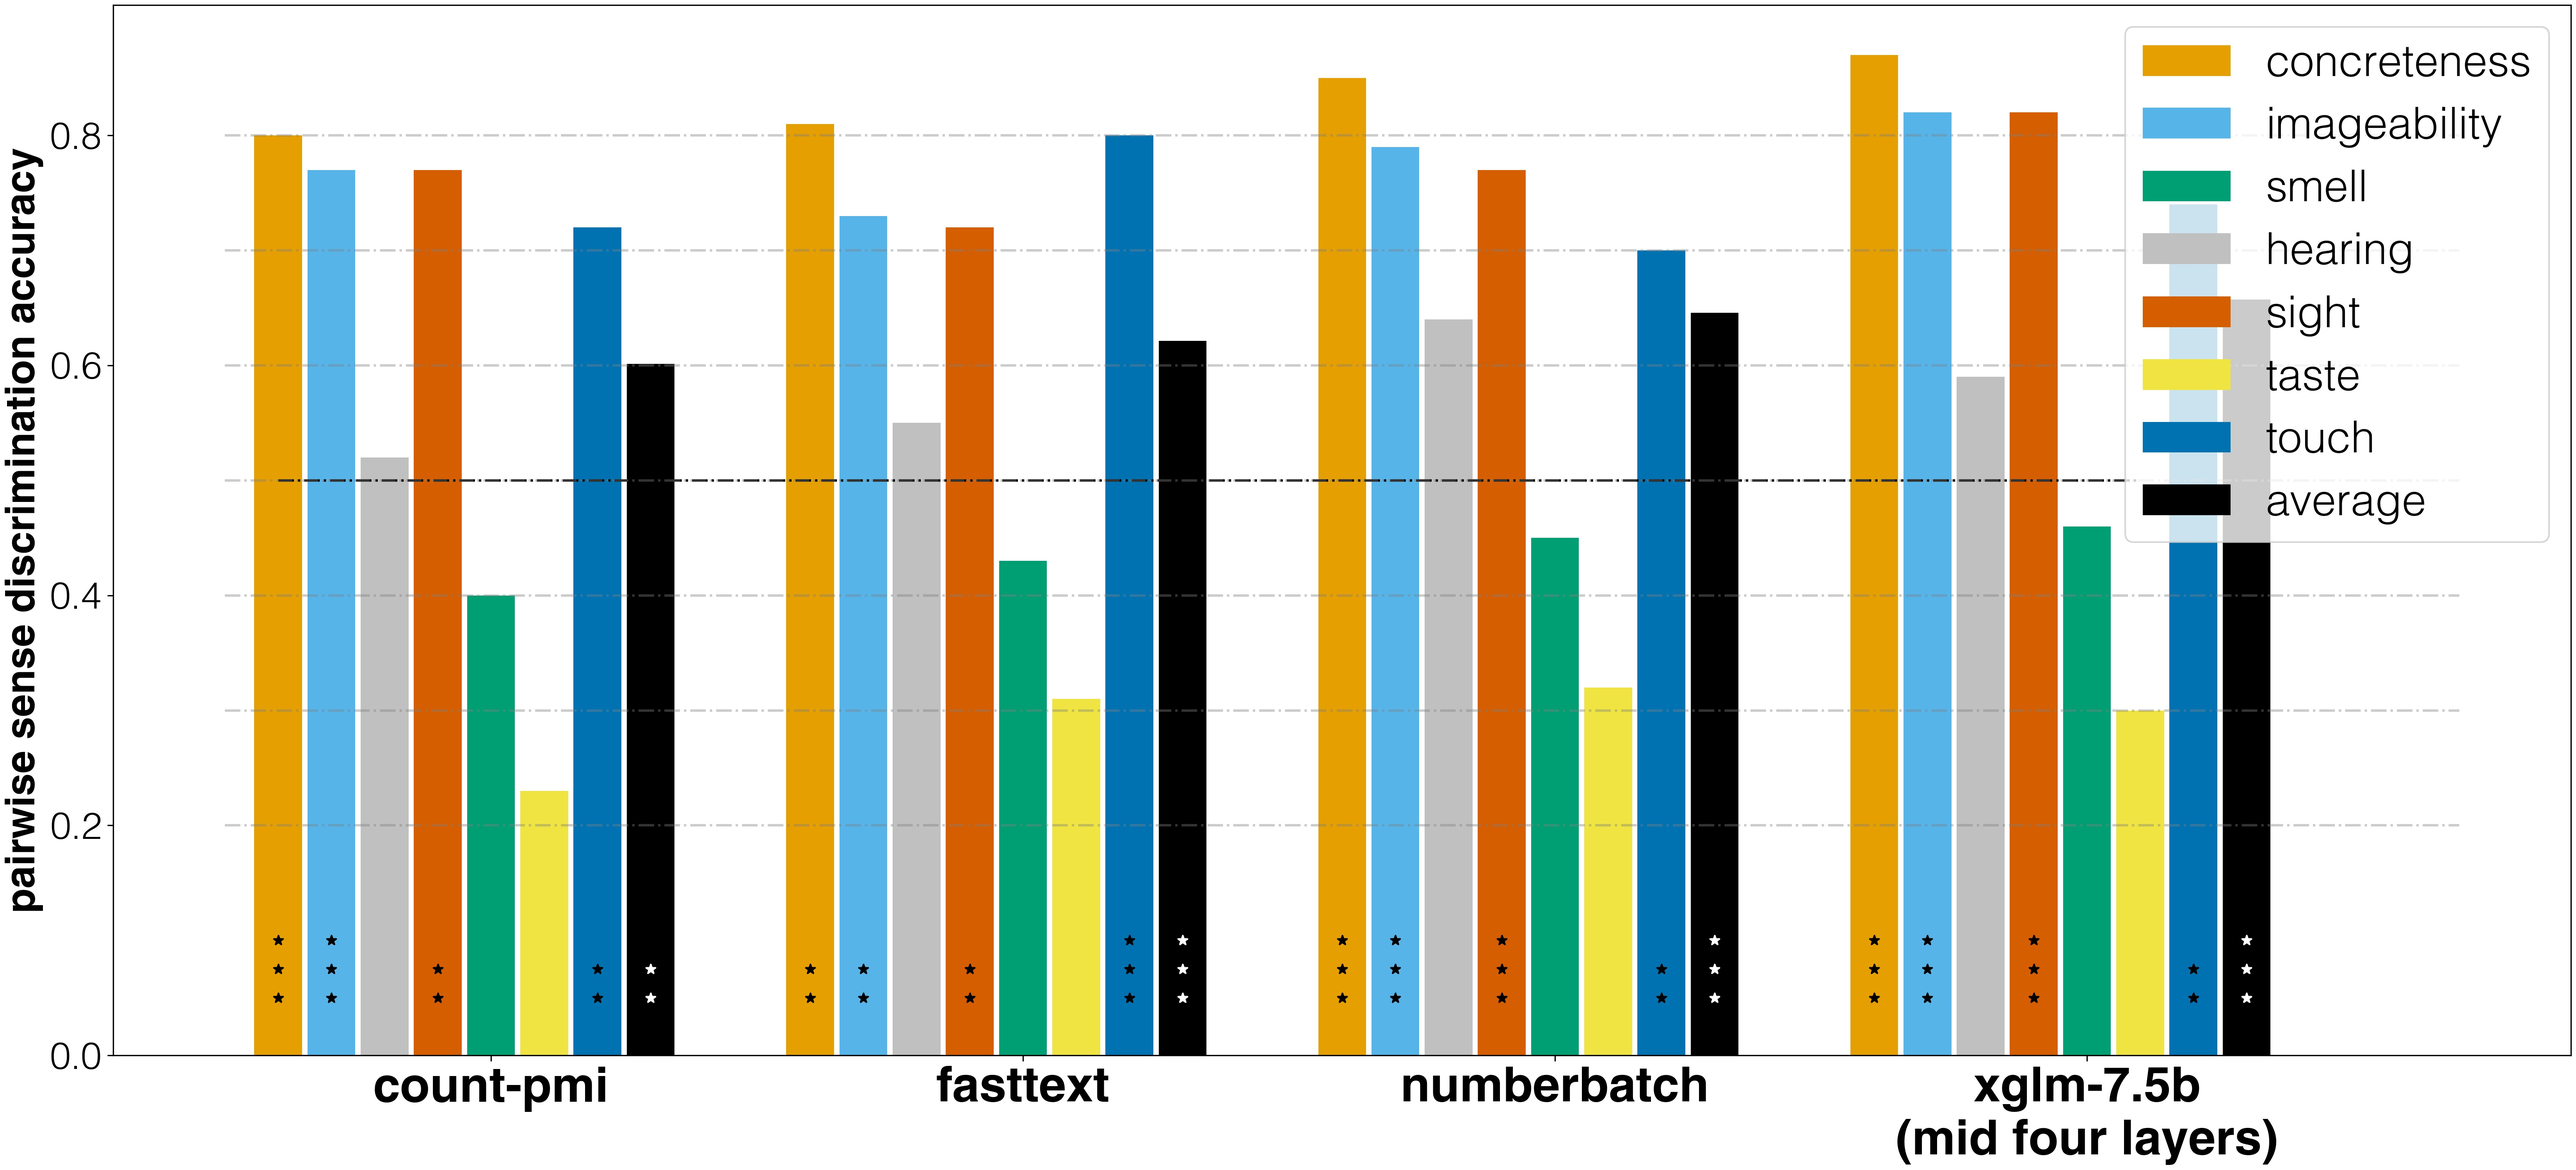
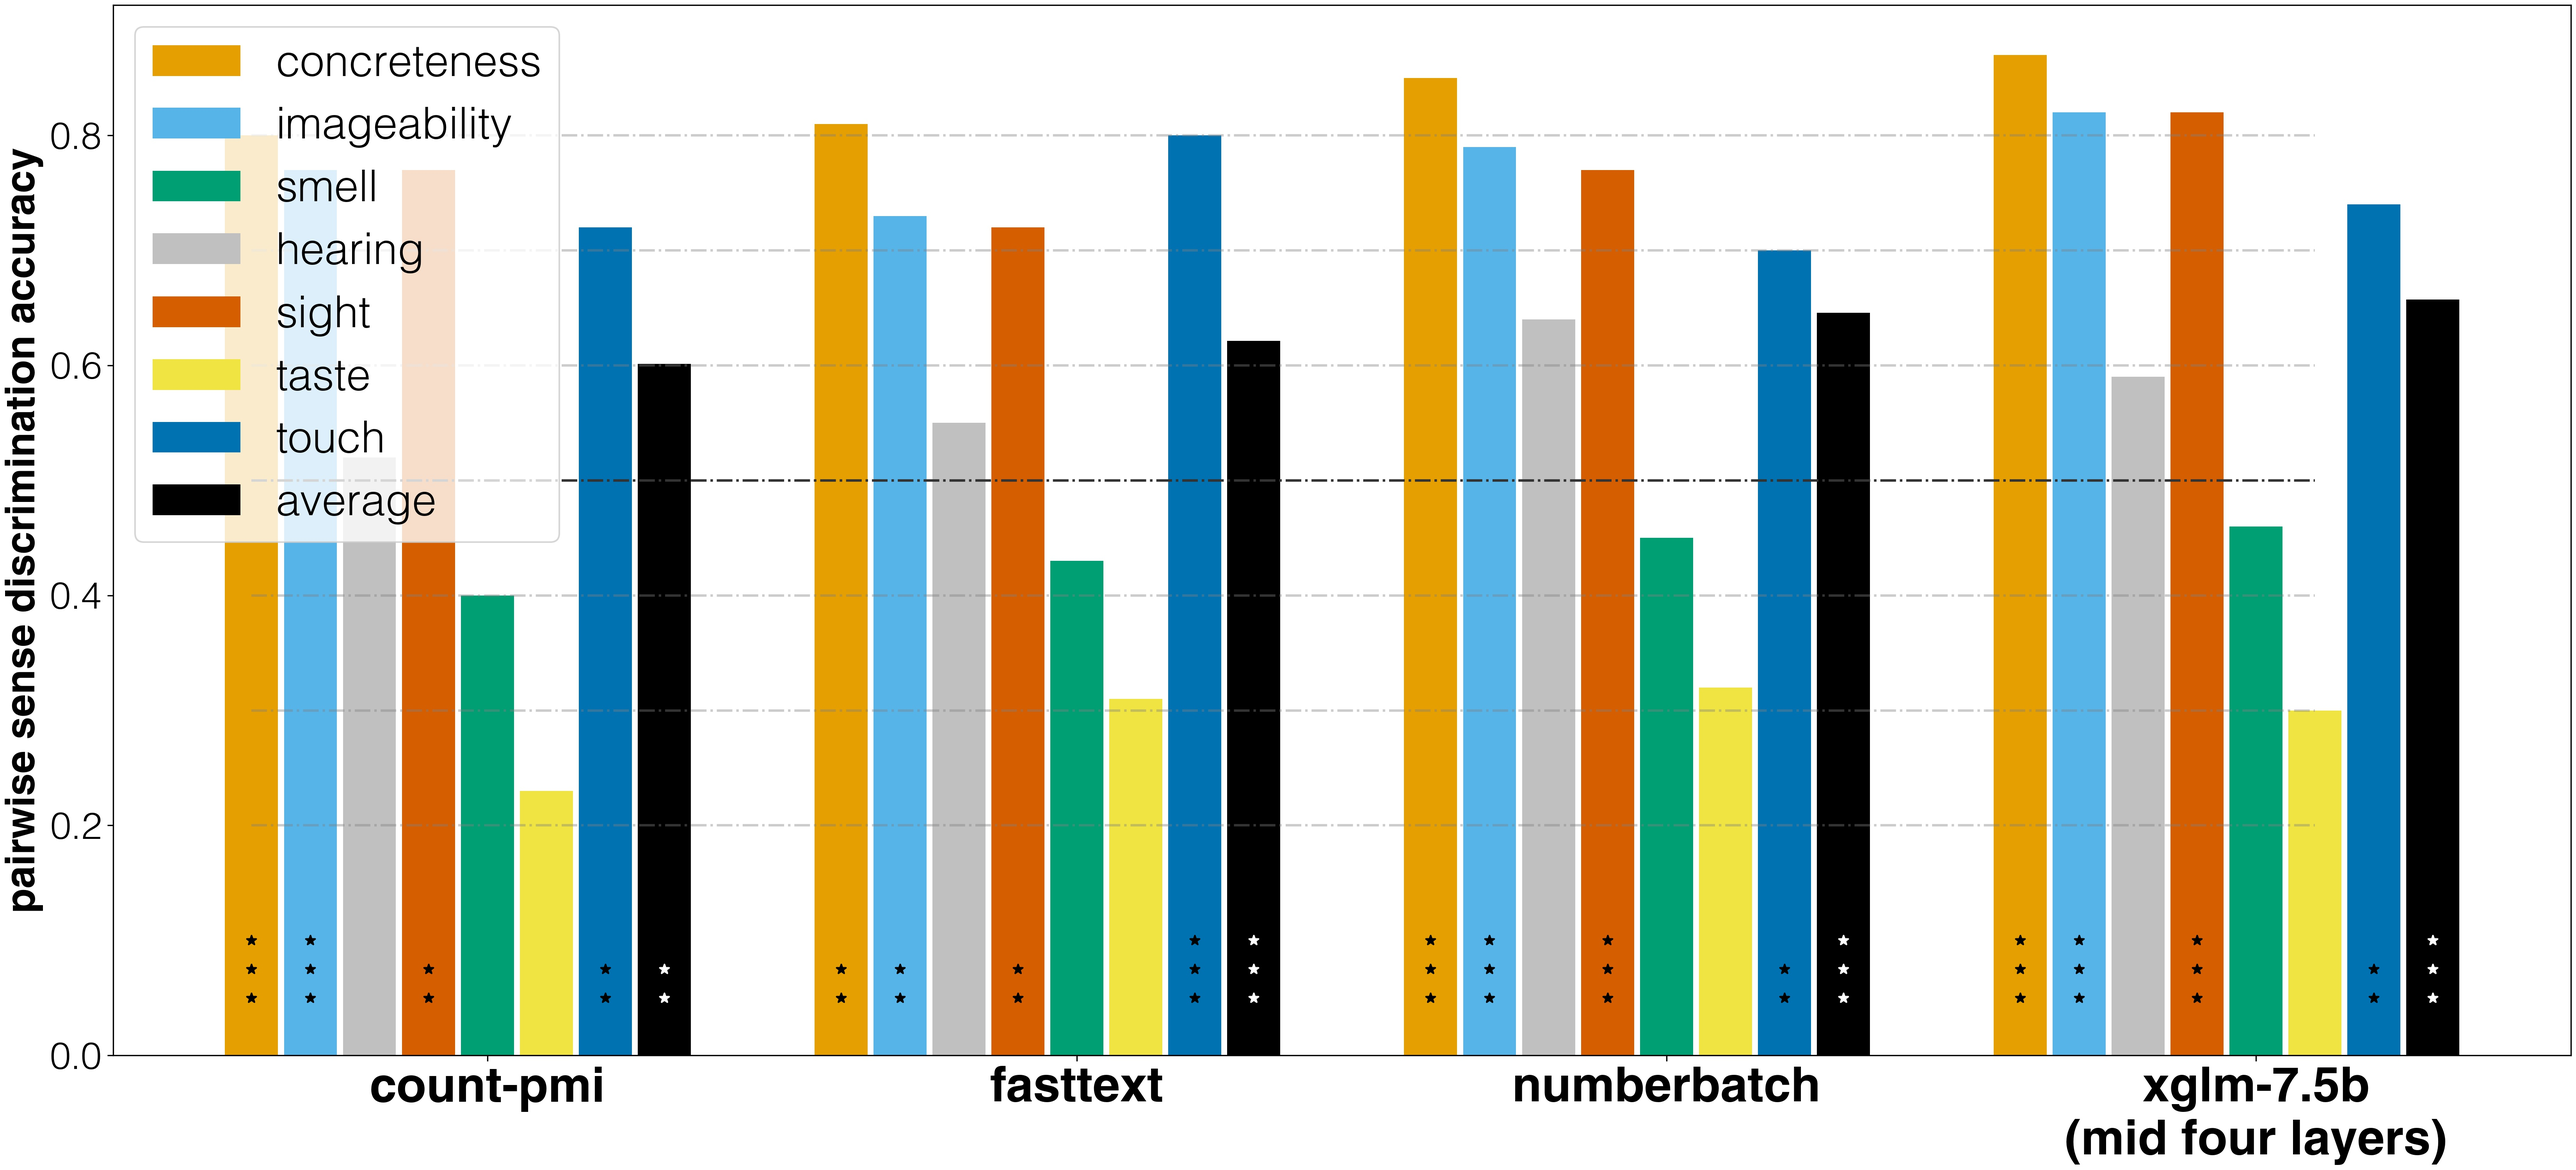
hlines

diff --git a/07_rsa_and_evaluation.py b/07_rsa_and_evaluation.py
@@ -489,7 +489,7 @@ with open('{}.txt'.format(out_file), 'w') as o:
                         zorder=2.5,)
         '''
 ax.hlines([0.5], xmin=0., color='black', xmax=len(models_sorted)-.5, linestyles='dashdot', zorder=2.5)
-ax.hlines([0.2, 0.3, 0.4, 0.5, 0.6, 0.7, 0.8], xmin=-0.1, color='grey', alpha=0.4, xmax=len(models_sorted)+.1, linestyles='dashdot', zorder=2.5)
+ax.hlines([0.2, 0.3, 0.4, 0.5, 0.6, 0.7, 0.8], xmin=0., color='grey', alpha=0.4, xmax=len(models_sorted)-.5, linestyles='dashdot', zorder=2.5)
 ### dummy to do the legend
 
 for col_name, pal in palette.items():
